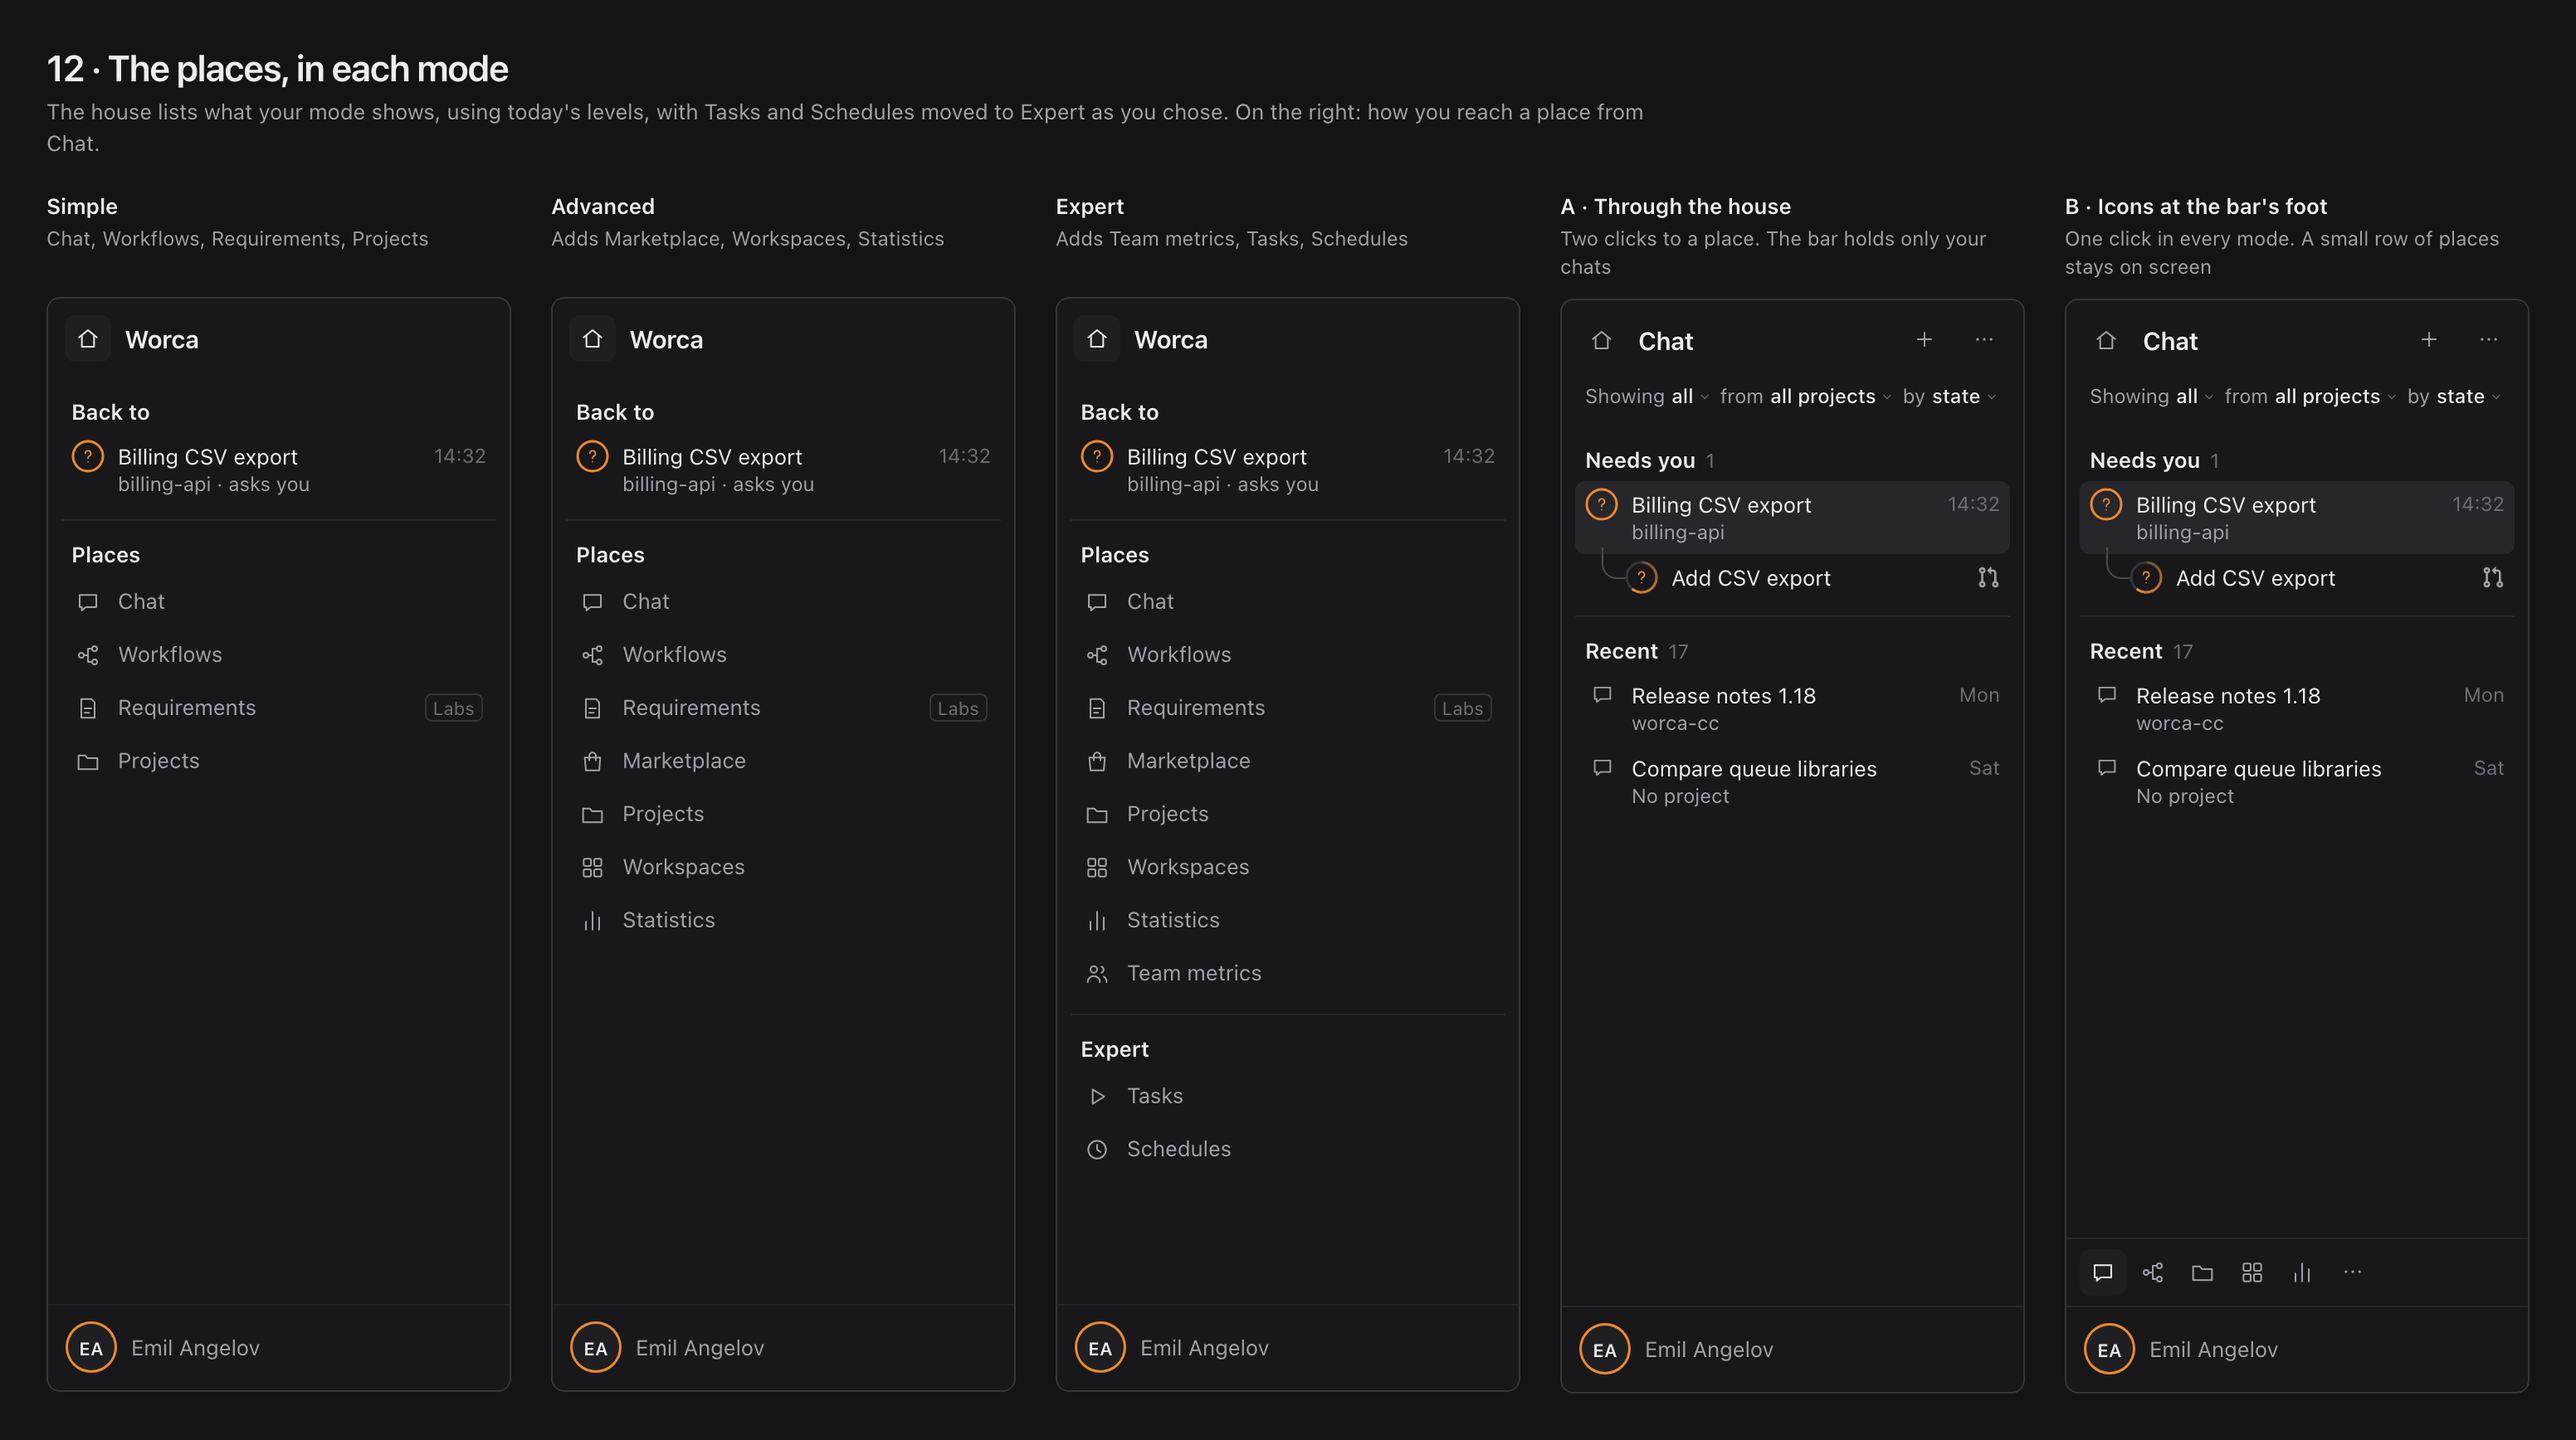
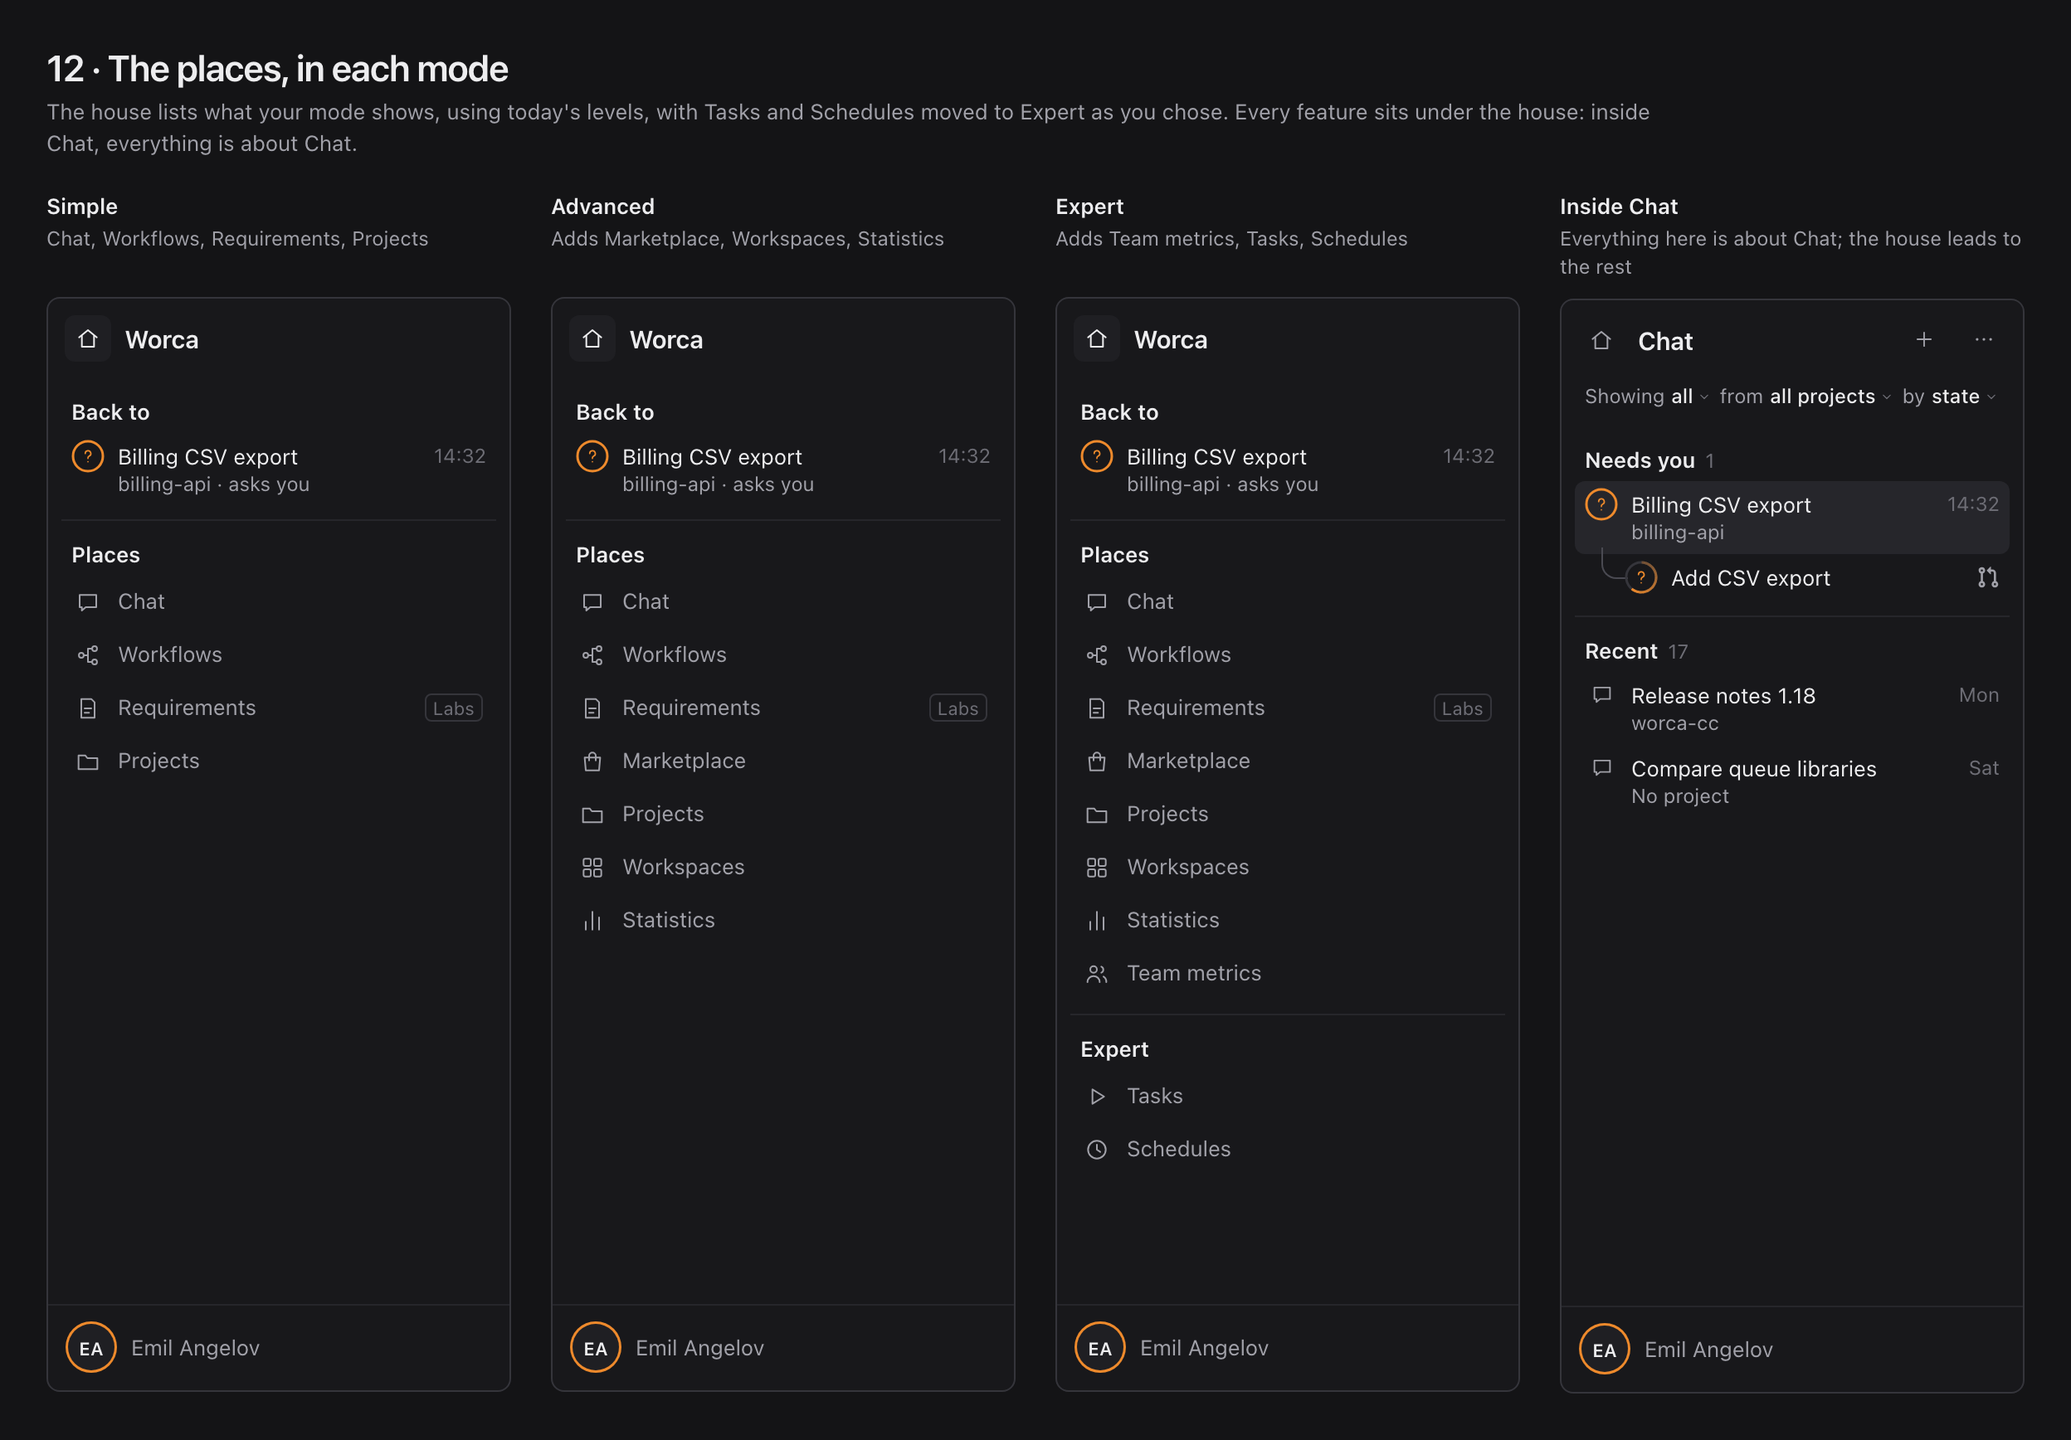
Shaping: features sit under the house; Chat home's line names Worca; a question with no chat starts one

diff --git a/plans/rail/mocks/wave-2/mock.js b/plans/rail/mocks/wave-2/mock.js
@@ -97,7 +97,7 @@ M[4]=()=>{
  return page('4 · Settings: lean icons, and search that finds everything','Every section and sub-section gets one small line icon. The one search finds settings, chats, tasks, schedules and the rest, each under its own head, so you always know which area a result is from.',
  `<div class="cols"><div><p class="cap">Sections and sub-sections</p><p class="capm">One icon each, in the bar and on a section's head</p><div class="f" style="height:800px;width:900px">`+bar({title:'Settings',body:set})+`<div class="mmain">`+topb(`Settings ${i('chevR',12)} <b>Tasks</b>`)+pg+`</div></div></div><div><p class="cap">Search, from any page</p><p class="capm">An area head over its results; each result says where it lives</p><div class="f" style="height:800px;width:640px"><div class="mmain">`+topb(`<b>Settings</b>`,{q:'limit',res})+`</div></div></div></div><div style="margin-top:24px;width:1564px">${sheet}</div>`);};
 M[5]=()=>{
- const fr=(n,cls,scheme,m)=>`<div><p class="cap">${n}</p><p class="capm">${m}</p><div class="f" style="height:330px;width:380px;color-scheme:${scheme};color:var(--ink)"><div class="mmain"><div class="bgs ${cls}"></div><div class="home"><h3>What's next?</h3><div class="cmp">Ask Worca…<div class="cmpb">${i('plus',15)}<span>No project</span><span class="send">${i('up',14)}</span></div></div></div></div></div></div>`;
+ const fr=(n,cls,scheme,m)=>`<div><p class="cap">${n}</p><p class="capm">${m}</p><div class="f" style="height:330px;width:380px;color-scheme:${scheme};color:var(--ink)"><div class="mmain"><div class="bgs ${cls}"></div><div class="home"><h3>What's next for Worca?</h3><div class="cmp">Ask Worca…<div class="cmpb">${i('plus',15)}<span>No project</span><span class="send">${i('up',14)}</span></div></div></div></div></div></div>`;
  const R=(s)=>`<div class="cols" style="margin-bottom:18px">`+[['Dots · default','bg-dots','The quiet grid, fading down'],['Aurora dots','bg-adots','The same grid, cool at the top'],['Dusk dots','bg-ddots','The same grid, warm from below'],['Mist','bg-mist','A faint wash under quiet dots']].map(x=>fr(x[0],x[1],s,s==='light'?x[2]:'In the dark')).join('')+`</div>`;
  return page('5 · Backgrounds: dots first','One family, built on the same dots: Dots by default, and colour only ever in the dots or a faint wash. Only where no work is read: Chat home and the away screen. Chosen in the profile menu, no violet, and still under reduced motion.',R('light')+R('dark'));};
 M[6]=()=>{
@@ -249,10 +249,9 @@ M[12]=()=>{
  const H=660;
  const home=(lvl)=>{const a=lvl>0,e=lvl>1;return gh('Back to')+row({mark:mark('chat','ask',-2),t:'Billing CSV export',m:'billing-api · asks you',e:'14:32'})+gh('Places',null,1)+ni('chat','Chat')+ni('workflow','Workflows')+ni('req','Requirements',{e:'Labs',x:1})+(a?ni('market','Marketplace'):'')+ni('folder','Projects')+(a?ni('grid','Workspaces')+ni('stats','Statistics'):'')+(e?ni('team','Team metrics')+gh('Expert',null,1)+ni('run','Tasks')+ni('schedule','Schedules'):'');};
  const col=(c,m,h)=>`<div style="width:280px"><p class="cap">${c}</p><p class="capm" style="min-height:34px">${m}</p>${h}</div>`;
- const foot=`<div class="pst">${['chat','workflow','folder','grid','stats'].map((n,x)=>`<span class="ib ${x?'':'bx'}">${i(n,16)}</span>`).join('')}<span class="ib">${i('more',15)}</span></div>`;
  const small=gh('Needs you',1)+row({mark:mark('chat','ask',-2),t:'Billing CSV export',m:'billing-api',e:'14:32',cur:1})+kids([{mark:mark('run','ask',2),t:'Add CSV export',g:'pr'}])+gh('Recent',17,1)+row({mark:mark('chat'),t:'Release notes 1.18',m:'worca-cc',e:'Mon'})+row({mark:mark('chat'),t:'Compare queue libraries',m:'No project',e:'Sat'});
- return page('12 · The places, in each mode','The house lists what your mode shows, using today\'s levels, with Tasks and Schedules moved to Expert as you chose. On the right: how you reach a place from Chat.',
+ return page('12 · The places, in each mode','The house lists what your mode shows, using today\'s levels, with Tasks and Schedules moved to Expert as you chose. Every feature sits under the house: inside Chat, everything is about Chat.',
  `<div class="cols">`+col('Simple','Chat, Workflows, Requirements, Projects',bar({solo:1,h:H,homeOn:1,title:'Worca',body:home(0)}))+col('Advanced','Adds Marketplace, Workspaces, Statistics',bar({solo:1,h:H,homeOn:1,title:'Worca',body:home(1)}))+col('Expert','Adds Team metrics, Tasks, Schedules',bar({solo:1,h:H,homeOn:1,title:'Worca',body:home(2)}))
- +col('A · Through the house','Two clicks to a place. The bar holds only your chats',bar({solo:1,h:H,title:'Chat',act:'plus',sent:SA,body:small}))+col('B · Icons at the bar\'s foot','One click in every mode. A small row of places stays on screen',bar({solo:1,h:H,title:'Chat',act:'plus',sent:SA,body:small,foot}))+`</div>`);};
+ +col('Inside Chat','Everything here is about Chat; the house leads to the rest',bar({solo:1,h:H,title:'Chat',act:'plus',sent:SA,body:small}))+`</div>`);};
 window.__live=()=>[['Working',mark('run','run',2,40),mark('run','run',2,20)],['Replying',mark('chat','run',-2,40),mark('chat','run',-2,20)],['A schedule running',mark('schedule','run',-2,40),mark('schedule','run',-2,20)],['Watch, fixing',gitw('fail','fix').replace(/width="20" height="20"/,'width="40" height="40"').replace('width:20px;height:20px','width:40px;height:40px').replace('width="11" height="11"','width="22" height="22"'),gitw('fail','fix')]];
 const q=new URLSearchParams(location.search);document.documentElement.style.colorScheme=q.get('theme')||'light';document.getElementById('m').innerHTML=M[q.get('m')||1]();

diff --git a/plans/rail/wave-2.md b/plans/rail/wave-2.md
@@ -72,7 +72,9 @@ Mocks: `mocks/wave-2/` (`node plans/rail/mocks/wave-2/render.mjs`). These are di
 | **No New run button or dialog:** the composer says Ask, Task or Schedule, you pick it, and every New run function has a place | 7 |
 | **A task or a schedule opens like a chat:** a reading column, marks, a composer that goes to its chat. Pulse stays | 8 |
 | **Anchors:** on hover first: marks on the right edge, named on hover, `[` and `]` between them | 9 |
-| Chat home's line: "What should Worca do?" goes; the mocks say "What's next?" for now | 5 |
+| Chat home's line always names Worca: "What's next for Worca?" | 5 |
+| **Every feature sits under the house:** inside Chat, everything is about Chat. No row of places in the bar | 1, 12 |
+| **Asking about a task or schedule with no chat** starts a new chat and links it | 8 |
 | **Status words:** all 19 stay. The icon breathes while work happens: dot and icon merge, so no dot sits beside an icon | 10 |
 | **Every kind of row** has one shape: chats by kind and channel, chains, features, watched tasks and rounds, schedules, events; bold is unread. Cost never shows in the bar: it stays on cards and pages | 11 |
 | **Touch:** a long-press shows a tooltip; anchors open from a list button | to mock |
